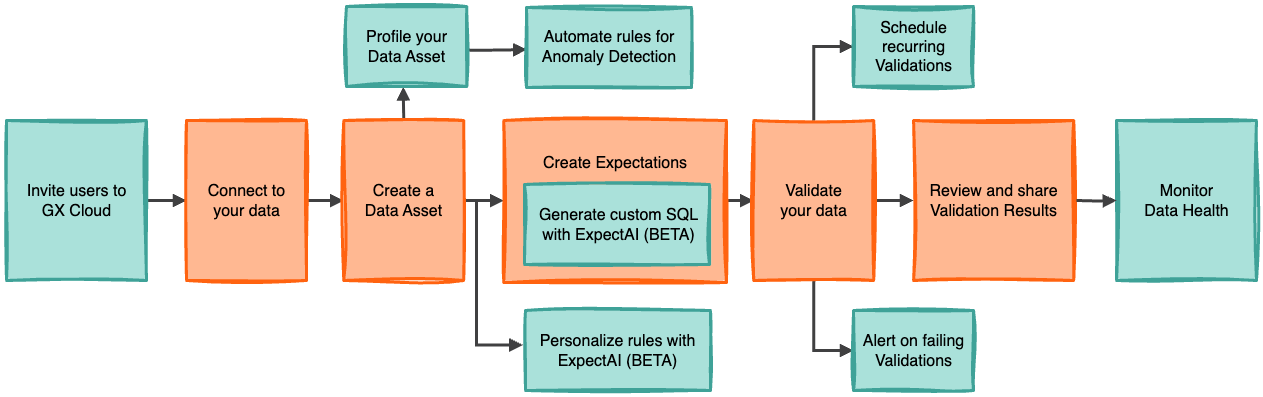
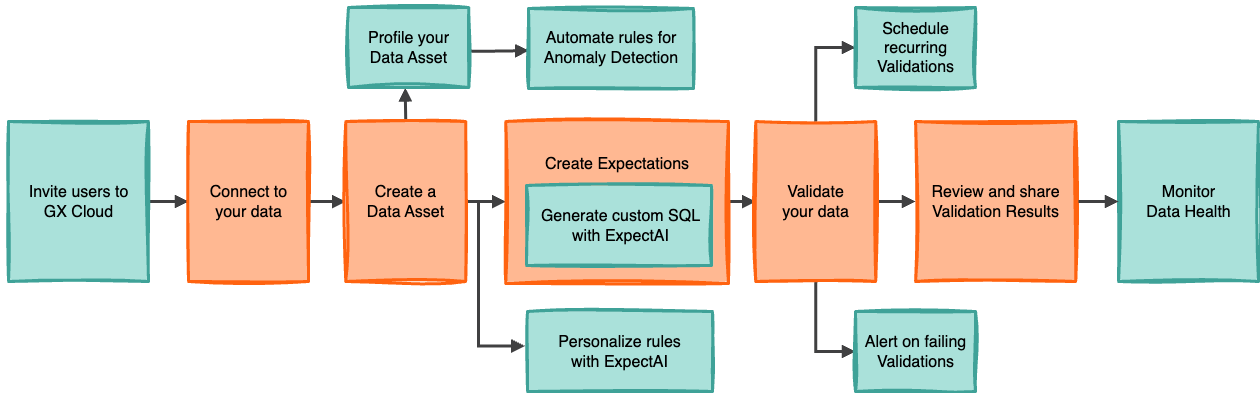
[DOCS] remove beta from ExpectAI (#11590)

Pull request: [DOCS] remove beta from ExpectAI
Docs in support of https://greatexpectations.atlassian.net/browse/GX-2233

- [x] Description of PR changes above includes a link to [an existing GitHub issue](https://github.com/great-expectations/great_expectations/issues)
- [x] PR title is prefixed with one of: [BUGFIX], [FEATURE], [DOCS], [MAINTENANCE], [CONTRIB], [MINORBUMP]
- [ ] Code is linted - run `invoke lint` (uses `ruff format` + `ruff check`)
- [x] Appropriate tests and docs have been updated

For more information about contributing, visit our [community resources](https://docs.greatexpectations.io/docs/core/introduction/community_resources#contribute-code-or-documentation).

After you submit your PR, keep the page open and **monitor the statuses of the various checks made by our continuous integration process at the bottom of the page. Please fix any issues that come up** and [reach out on Slack](https://greatexpectations.io/slack) if you need help. Thanks for contributing!

Changed region(s): [[0.0, 0.0, 1.0, 1.0]]

diff --git a/docs/docusaurus/docs/cloud/expectations/manage_expectations.md b/docs/docusaurus/docs/cloud/expectations/manage_expectations.md
@@ -27,7 +27,7 @@ This page provides instructions for working with Expectations. To learn about Ex
    :::tip Options for accelerating test coverage
    If you are using a [supported Data Source](/docs/cloud/data_sources/manage_data_sources), you can use the following to speed up test creation:
    - If you selected the **Schema**, **Volume**, or **Completeness** data quality issue, you will have the **Automatic** option to generate Expectations for [Anomaly Detection](/cloud/overview/accelerating_test_coverage.md#anomaly-detection). Generated Expectations will default to warning severity, which you can edit later. If you instead want to create your own rules, click **Manual**.
-   - If you selected custom **SQL**, you will have the option to **Generate SQL** with [ExpectAI (BETA)](#generate-sql). You can write your own SQL if you prefer.
+   - If you selected custom **SQL**, you will have the option to **Generate SQL** with [ExpectAI](#generate-sql). You can write your own SQL if you prefer.
    :::
 
 5. Select an Expectation type.
@@ -41,7 +41,7 @@ This page provides instructions for working with Expectations. To learn about Ex
 9. Optional. Configure recurring Validations. See [Manage schedules](/docs/cloud/schedules/manage_schedules).
 
 
-## Save time with ExpectAI <span class="beta">Beta</span>
+## Save time with ExpectAI
 
 ExpectAI is an analytical AI tool that you can use to generate tests.
 

diff --git a/docs/docusaurus/docs/cloud/overview/gx_cloud_overview.md b/docs/docusaurus/docs/cloud/overview/gx_cloud_overview.md
@@ -70,9 +70,9 @@ There are a variety of GX Cloud features that support additional enhancements to
 
 * **Automate rules for Anomaly Detection.** GX Cloud can automatically generate Expectations that detect column changes, volume changes that deviate from historical patterns, and changes to the proportion of null values in each column. This option is available in the GX Cloud UI when you [create new Data Assets](/cloud/data_assets/manage_data_assets.md#add-a-data-asset-from-an-existing-data-source) or [add Expectations](/cloud/expectations/manage_expectations.md#add-an-expectation) for an existing Data Asset.
 
-* **Personalize rules with ExpectAI (BETA).** GX Cloud can generate [AI-recommended Expectations](/cloud/expectations/manage_expectations.md#generate-expectations) for a Data Asset. These will be personalized based on an analysis of a sample of your data.
+* **Personalize rules with ExpectAI.** GX Cloud can generate [AI-recommended Expectations](/cloud/expectations/manage_expectations.md#generate-expectations) for a Data Asset. These will be personalized based on an analysis of a sample of your data.
 
-* **Generate code for custom SQL Expectations with ExpectAI (BETA).** To simplify working with [custom SQL Expectations](/cloud/expectations/expectations_overview.md#custom-sql-expectations), you can use ExpectAI to generate a SQL query based on a natural language prompt you provide and a data profile GX Cloud automatically provides.
+* **Generate code for custom SQL Expectations with ExpectAI.** To simplify working with [custom SQL Expectations](/cloud/expectations/expectations_overview.md#custom-sql-expectations), you can use ExpectAI to generate a SQL query based on a natural language prompt you provide and a data profile GX Cloud automatically provides.
 
 * **Schedule Validations.** GX Cloud enables you to schedule validations, so that you can test and assess your data on a regular cadence and monitor data quality over time. See [Manage schedules](/cloud/schedules/manage_schedules.md) for more detail.
 

diff --git a/docs/docusaurus/docs/cloud/alerts/manage_email_alerts.md b/docs/docusaurus/docs/cloud/alerts/manage_email_alerts.md
@@ -8,7 +8,7 @@ Stay informed about the health of the Data Assets that you care about by enablin
 
 GX Cloud sends email alerts on the following events:
 - A Data Asset fails a validation run.
-- [ExpectAI (BETA)](/cloud/expectations/manage_expectations.md#generate-expectations) generates recommended Expectations for a Data Asset. 
+- [ExpectAI](/cloud/expectations/manage_expectations.md#generate-expectations) generates recommended Expectations for a Data Asset. 
 
 :::tip Want notifications based on failure severity?
 Use [Actions](/cloud/alerts/trigger_actions.md) to create notification patterns based on [failure severity](/cloud/expectations/expectations_overview.md#failure-severity).

diff --git a/docs/docusaurus/docs/cloud/data_sources/manage_data_sources.md b/docs/docusaurus/docs/cloud/data_sources/manage_data_sources.md
@@ -31,7 +31,7 @@ Some UI-only features are not supported for some Data Sources. Consult the table
 | [Column filter](/docs/cloud/overview/data_health#filters) on Data Health dashboard                                                         | <span role="img" aria-label="Yes">✅</span>                                    | <span role="img" aria-label="Yes">✅</span> | <span role="img" aria-label="No">❌ </span>                                   | None                                                                                                                                                                           |
 | [Generate Anomaly Detection](/docs/cloud/overview/accelerating_test_coverage.md#anomaly-detection) Expectations when adding a Data Asset   | <span role="img" aria-label="Yes">✅</span>                                    | <span role="img" aria-label="No">❌ </span> | <span role="img" aria-label="No">❌ </span>                                   |[Manually configure Anomaly Detection](/docs/cloud/expectations/expectations_overview.md#anomaly-detection) by adding Expectations with Dynamic Parameters or forecasted ranges |
 | [Generate Anomaly Detection](/docs/cloud/overview/accelerating_test_coverage.md#anomaly-detection) Expectations when adding an Expectation | <span role="img" aria-label="Yes">✅</span>                                    | <span role="img" aria-label="Yes">✅</span> | <span role="img" aria-label="No">❌ </span>                                   |[Manually configure Anomaly Detection](/docs/cloud/expectations/expectations_overview.md#anomaly-detection) by adding Expectations with Dynamic Parameters or forecasted ranges |
-| [ExpectAI](/docs/cloud/overview/accelerating_test_coverage.md#expectai-beta)                                                               | <span role="img" aria-label="Yes">✅</span>                                    | <span role="img" aria-label="No">❌ </span> | <span role="img" aria-label="No">❌ </span>                                   | None                                                                                                                                                                           |
+| [ExpectAI](/docs/cloud/overview/accelerating_test_coverage.md#expectai)                                                               | <span role="img" aria-label="Yes">✅</span>                                    | <span role="img" aria-label="No">❌ </span> | <span role="img" aria-label="No">❌ </span>                                   | None                                                                                                                                                                           |
 | [Schedule recurring Validations](/docs/cloud/schedules/manage_schedules.md)                                                                | <span role="img" aria-label="Yes">✅</span>                                    | <span role="img" aria-label="No">❌ </span> | <span role="img" aria-label="No">❌ </span>                                   |[Use an orchestrator](/docs/reference/learn/integrations/data_pipeline_tutorial) to run recurring Validations                                                                   |
 
 \* AlloyDB, Amazon Aurora PostgreSQL, Citus, and Neon are PostgreSQL-derived systems and have the same support in GX Cloud as PostgreSQL.

diff --git a/docs/docusaurus/docs/cloud/deploy/deploy_gx_agent.md b/docs/docusaurus/docs/cloud/deploy/deploy_gx_agent.md
@@ -18,7 +18,7 @@ A local deployment of the GX Agent will allow you to test GX Cloud setup or proc
 
 ## Limitations
 
-- Agent-enabled deployments do not support [ExpectAI](/cloud/overview/accelerating_test_coverage.md#expectai-beta). To be able to generate AI-recommended Expectations or generate custom SQL Expectations from natural language prompts, use a [fully-hosted deployment](/cloud/deploy/deployment_patterns.md).
+- Agent-enabled deployments do not support [ExpectAI](/cloud/overview/accelerating_test_coverage.md#expectai). To be able to generate AI-recommended Expectations or generate custom SQL Expectations from natural language prompts, use a [fully-hosted deployment](/cloud/deploy/deployment_patterns.md).
 
 ## Prerequisites
 

diff --git a/docs/docusaurus/docs/cloud/overview/accelerating_test_coverage.md b/docs/docusaurus/docs/cloud/overview/accelerating_test_coverage.md
@@ -43,7 +43,7 @@ To detect completeness anomalies, we generate rules for every column to [**expec
 
 If the proportions change at all for a column that started with all null values or no null values, its generated completeness Expectation will fail. If the proportions change a bit for a column that started with a mix of null and non-null values, its generated completeness Expectation will pass; if the change is drastic, the generated completeness Expectation will fail.
 
-## ExpectAI <span class="beta">Beta</span>
+## ExpectAI
 ExpectAI is an analytical AI tool that powers several features in GX Cloud.
 
 